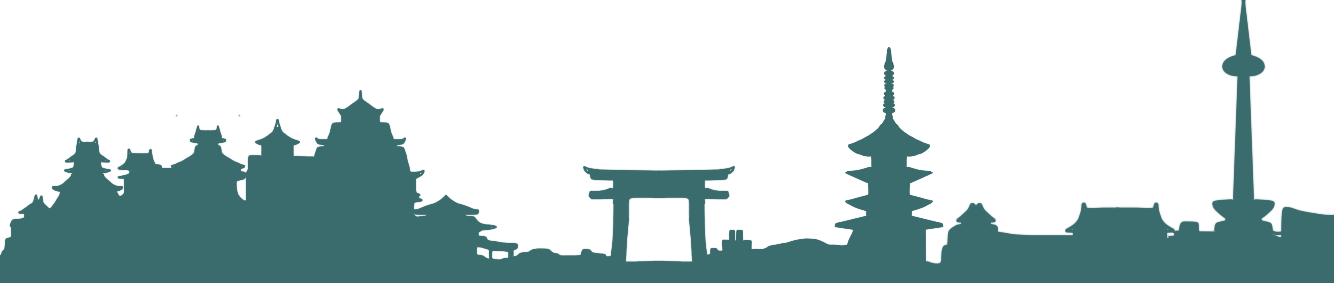
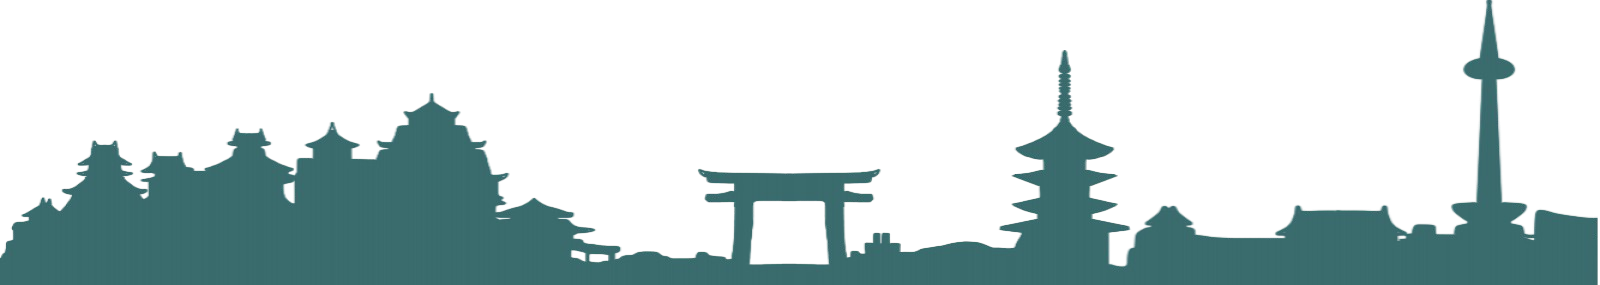
fix styling

diff --git a/src/Components/Pages/about.scss b/src/Components/Pages/about.scss
@@ -5,8 +5,8 @@
 .about-app {
   @include app;
   display: flex;
-  position: unset;
   overflow: hidden;
+  position: unset;
 
   .about,
   .about-right {
@@ -101,8 +101,8 @@
     .block,
     .city {
       background-repeat: no-repeat;
-      width: 100%;
       height: 100%;
+      width: 100%;
     }
 
     .block {
@@ -117,10 +117,11 @@
     }
 
     .city {
-      background-image: url("../../Assets/img/City.PNG");
+      background-image: url("../../Assets/img/city.png");
       bottom: 0;
+      height: 285px;
       position: absolute;
-      z-index: -1;
+      z-index: 1;
     }
 
     .container {
@@ -128,18 +129,40 @@
     }
 
     .content {
-      @include prefix(transform, translateZ(9px), webkit ms moz o);
       padding-top: 10vh;
-      z-index: 9;
+      z-index: -1;
 
-      img {
-        border: 5px $light-secondary solid;
-        border-radius: 50%;
-        box-shadow: 10px 10px 30px -3px rgba($color: $light-secondary-darken, $alpha:
-              0.7);
-        object-fit: cover;
-        height: 270px;
-        width: 100%;
+      &.show {
+        .img-box,
+        .description,
+        .items {
+          @include prefix(transform, translateY(0), webkit moz ms o);
+          opacity: 1;
+        }
+      }
+
+      .img-box,
+      .description,
+      .items {
+        @include prefix(
+          transition,
+          1s cubic-bezier(0.64, 0.57, 0.67, 1.7) 1.8s,
+          webkit moz ms o
+        );
+        @include prefix(transform, translateY(70vh), webkit moz ms o);
+        opacity: 0;
+      }
+
+      .img-box {
+        img {
+          border: 5px $light-secondary solid;
+          border-radius: 50%;
+          box-shadow: 10px 10px 30px -3px rgba($color: $light-secondary-darken, $alpha:
+                0.7);
+          object-fit: cover;
+          height: 270px;
+          width: 100%;
+        }
       }
 
       .description {
@@ -184,5 +207,3 @@
     }
   }
 }
-
-@use '../../media';

diff --git a/src/Components/Pages/About.jsx b/src/Components/Pages/About.jsx
@@ -39,7 +39,7 @@ export default function About() {
       <div className="about-right" id="about-right">
         <div className="city"></div>
         <div className="block"></div>
-        <div className="content container">
+        <div className={`content container ${swipe ? "show" : ""}`}>
           <div className="row">
             <div className="col-lg-3 col-md-6 col-sm-12">
               <div className="img-box">
@@ -71,11 +71,16 @@ export default function About() {
               <a
                 href="https://www.docdroid.net/i0chlcz/cv-may-2020-pdf"
                 target="_blank"
+                className="items"
               >
                 <div className="circle cv"></div>
                 <p>&emsp;CV</p>
               </a>
-              <a href="https://www.linkedin.com/in/panji-g/" target="_blank">
+              <a
+                href="https://www.linkedin.com/in/panji-g/"
+                target="_blank"
+                className="items"
+              >
                 <div className="circle linkedin"></div>
                 <p>&emsp;Linkedin</p>
               </a>
